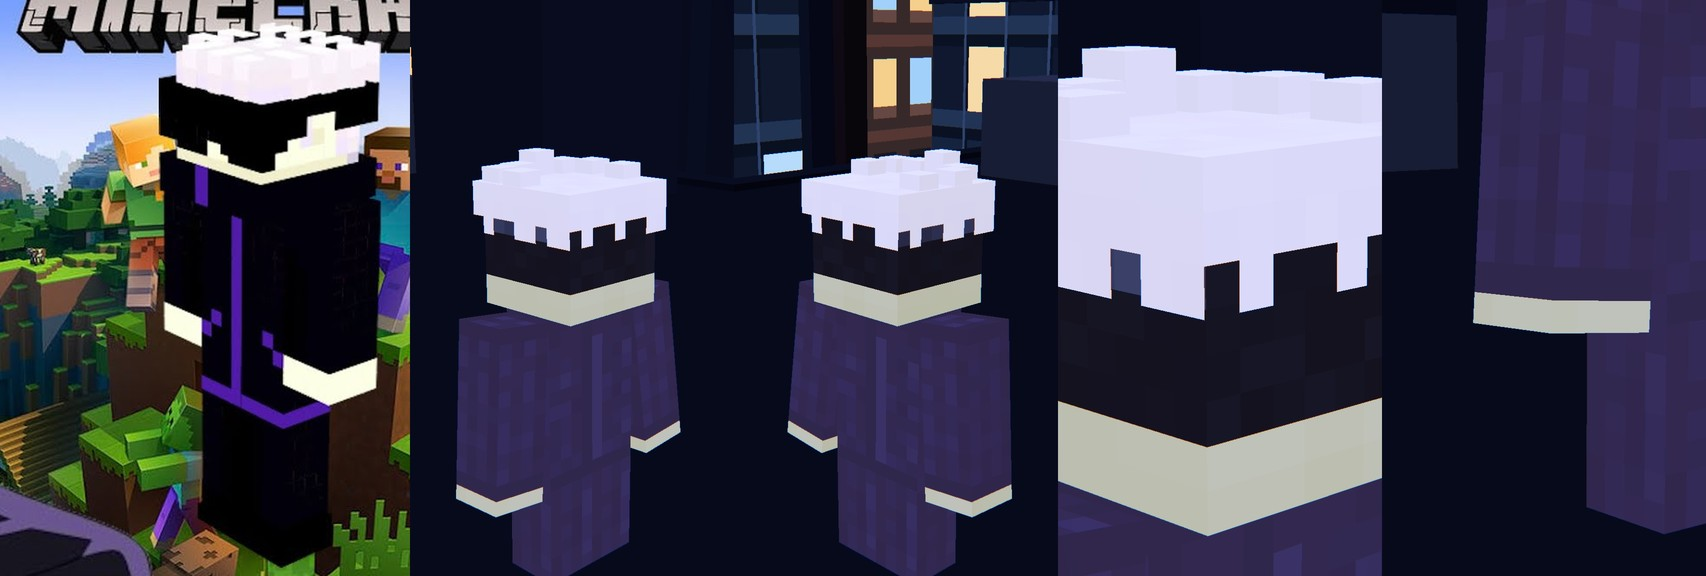
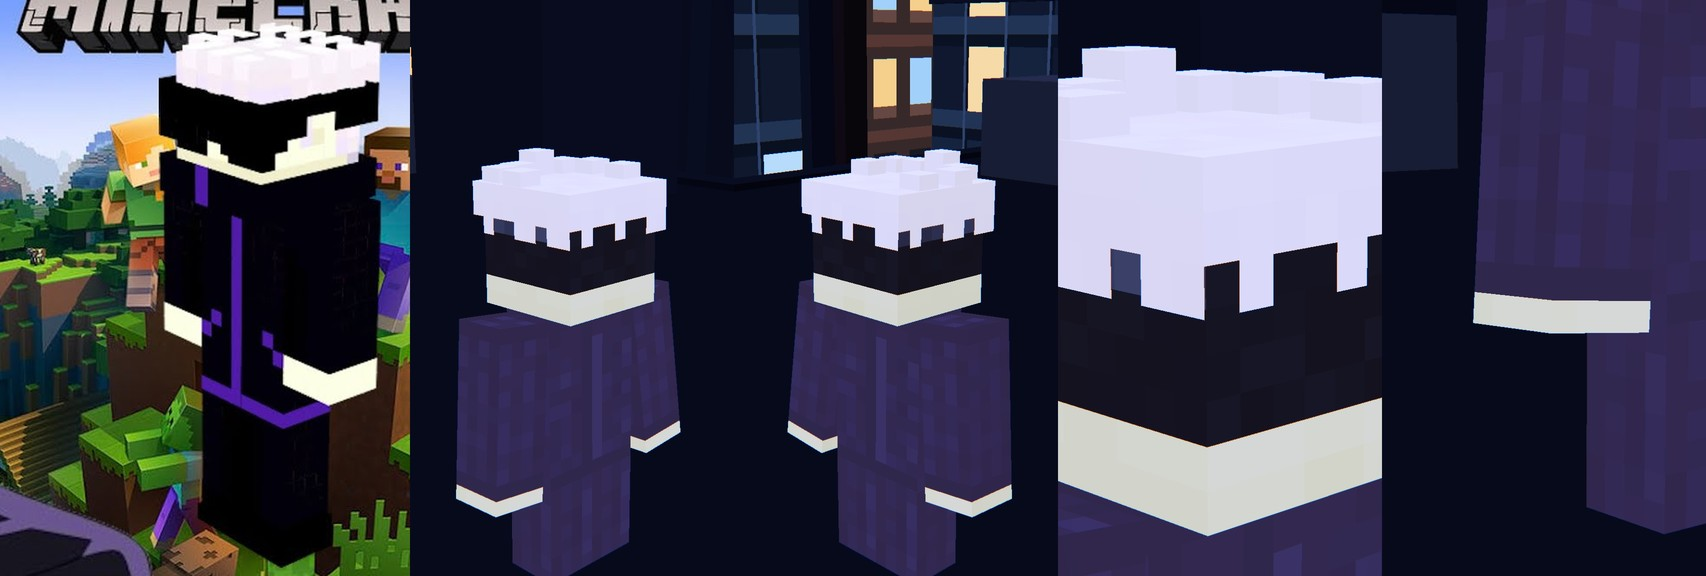
Fix #10 whiter skin, #11 black opaque domain shells
Claude-Session: https://claude.ai/code/session_01S56hgemtkMbZ6x2faBPqWi

diff --git a/minecraft-short-gojo/src/main.js b/minecraft-short-gojo/src/main.js
@@ -204,14 +204,16 @@ burst(T.kneel, [0, 0.2, 4.2], 40, { speed: 4, up: 2, life: 1.4, size: 0.3, g: 9,
 for (let k = 0; k < 14; k++) burst(T.interior + k * 0.65, [(rnd(k) - 0.5) * 18, 0.4, (rnd(k * 2) - 0.5) * 22], 8, { speed: 0.6, up: 4, life: 2.5, size: 0.3, g: -0.3, cols: [0x000000, 0x1a0010], seed: 70 + k, ground: false, spread: 6 });
 
 
-// 領域の殻(外から見る衝突) / 技の球
-function shell(col, wire) {
+// 領域の殻(外から見る): 黒い外郭。縁だけがうっすら光り、表面に弱い模様が流れる
+function shell(rim, pat, kind) {
   const g = new THREE.Group();
-  g.add(new THREE.Mesh(new THREE.IcosahedronGeometry(1, 3), new THREE.MeshBasicMaterial({ color: col, transparent: true, opacity: 0.2, side: THREE.DoubleSide, depthWrite: false, toneMapped: false })));
-  g.add(new THREE.Mesh(new THREE.IcosahedronGeometry(1.005, 2), new THREE.MeshBasicMaterial({ color: wire, wireframe: true, transparent: true, opacity: 0.6, toneMapped: false })));
-  g.visible = false; scene.add(g); return g;
+  const mat = new THREE.ShaderMaterial({ transparent: true, depthWrite: false, side: THREE.DoubleSide, toneMapped: false,
+    uniforms: { a: { value: 1.0 }, rim: { value: new THREE.Color(rim) }, pat: { value: new THREE.Color(pat) }, time: { value: 0 }, kind: { value: kind } },
+    vertexShader: 'varying vec3 vN; varying vec3 vP; void main(){ vN=normalize(normalMatrix*normal); vP=position; gl_Position=projectionMatrix*modelViewMatrix*vec4(position,1.0);}',
+    fragmentShader: 'uniform float a,time,kind; uniform vec3 rim,pat; varying vec3 vN; varying vec3 vP; float h(vec3 p){return fract(sin(dot(p,vec3(12.9898,78.233,37.719)))*43758.5453);} void main(){ float f=pow(1.0-abs(vN.z),5.0); vec3 c=vec3(0.0,0.0,0.002)+rim*f*0.55; if(kind<0.5){ float s=step(0.992,h(floor(vP*22.0))); c+=pat*s*(0.5+0.5*sin(time*4.0+h(floor(vP*22.0))*20.0))*0.8; } else { float v=0.5+0.5*sin(vP.y*14.0+sin(vP.x*9.0+time*2.0)*2.0); c+=pat*pow(v,12.0)*0.14*(0.4+f); } gl_FragColor=vec4(c,a);}' });
+  const m = new THREE.Mesh(new THREE.SphereGeometry(1, 64, 48), mat); g.add(m); g.visible = false; scene.add(g); return g;
 }
-const shA = shell(0x101a60, 0xaad0ff), shB = shell(0xff5a20, 0xffd060), shF = shell(0xff2030, 0x000000);
+const shA = shell(0x6aa8ff, 0xbfe0ff, 0), shB = shell(0xff3a30, 0xff5a40, 1), shF = shell(0xff2030, 0xff4a40, 1);
 const ball = (c) => { const m = new THREE.Mesh(new THREE.SphereGeometry(1, 18, 12), bas(c, { transparent: true })); m.visible = false; scene.add(m); return m; };
 const bfBlack = new THREE.Mesh(new THREE.SphereGeometry(1, 16, 12), new THREE.MeshBasicMaterial({ color: 0, transparent: true, depthWrite: false }));
 const bfRed = new THREE.Mesh(new THREE.SphereGeometry(1, 16, 12), new THREE.MeshBasicMaterial({ color: 0xff1030, side: THREE.BackSide, transparent: true, toneMapped: false, depthWrite: false }));
@@ -479,9 +481,9 @@ function updateFx(t, tvid) {
       flashW = Math.max(flashW, d < 0.02 ? 0.6 : 0.12 * (1 - clamp(d / 0.6))); shakeAmp = Math.max(shakeAmp, 1.0 * (1 - clamp(d / 0.9))); if (d < 0.02) invert = 1; fxLight.color.set(0x4aa8ff); fxLight.position.copy(pos); fxLight.intensity = 50 * (1 - clamp(d / 0.8)); } }
   if (t < T.counter || t > T.counter + 1.3) bfRed.material.color.set(0xff1030);
   // 五条の領域展開(一足早い)
-  { const d = hit(T.domG2, 0.9); if (d >= 0) { shA.visible = true; shA.position.set(0, 0, -7.4); shA.scale.setScalar(0.5 + 70 * easeOut(clamp(d / 0.8))); shA.children[0].material.opacity = 0.3 * (1 - d / 0.9); flashW = Math.max(flashW, d < 0.12 ? 0.9 : 0.4 * (1 - d / 0.9)); shakeAmp = Math.max(shakeAmp, 0.7 * (1 - d / 0.9)); if (d < 0.06) invert = 1; } }
+  { const d = hit(T.domG2, 0.9); if (d >= 0) { shA.visible = true; shA.position.set(0, 0, -7.4); shA.scale.setScalar(0.5 + 70 * easeOut(clamp(d / 0.8))); shA.children[0].material.uniforms.a.value = 1.0 - smooth(clamp((d - 0.45) / 0.45)); flashW = Math.max(flashW, d < 0.12 ? 0.9 : 0.4 * (1 - d / 0.9)); shakeAmp = Math.max(shakeAmp, 0.7 * (1 - d / 0.9)); if (d < 0.06) invert = 1; } }
   // 虎杖が遅れて領域展開を試みる→失敗
-  { const d = t - 38.2; if (d >= 0 && d < 0.8) { shF.visible = true; shF.position.set(0, 0, 4.2); const k = d / 0.8; shF.scale.setScalar(Math.max(0.01, 4 * Math.sin(k * PI * 0.5) * (1 - 0.8 * k * k))); shF.children[0].material.opacity = 0.3 * (1 - k); for (let b = 0; b < 8; b++) bolts.bolt(V3(0, 1.3, 4.2), V3(0, 1.3, 4.2).add(V3(rnd(frame + b) - .5, rnd(frame * 3 + b) - .5, rnd(frame * 5 + b) - .5).normalize().multiplyScalar(3.4 * (1 - k * 0.6))), { n: 5, jit: .3, w: 0.06, color: b % 2 ? 0xff1030 : 0x000000, seed: frame + b }); } }
+  { const d = t - 38.2; if (d >= 0 && d < 0.8) { shF.visible = true; shF.position.set(0, 0, 4.2); const k = d / 0.8; shF.scale.setScalar(Math.max(0.01, 4 * Math.sin(k * PI * 0.5) * (1 - 0.8 * k * k))); shF.children[0].material.uniforms.a.value = 1.0 - smooth(clamp((k - 0.5) / 0.5)); for (let b = 0; b < 8; b++) bolts.bolt(V3(0, 1.3, 4.2), V3(0, 1.3, 4.2).add(V3(rnd(frame + b) - .5, rnd(frame * 3 + b) - .5, rnd(frame * 5 + b) - .5).normalize().multiplyScalar(3.4 * (1 - k * 0.6))), { n: 5, jit: .3, w: 0.06, color: b % 2 ? 0xff1030 : 0x000000, seed: frame + b }); } }
   { const d = hit(45.5, 0.5); if (d >= 0) { flashW = Math.max(flashW, 0.7 * (1 - d / 0.5)); shakeAmp = Math.max(shakeAmp, 0.4 * (1 - d / 0.5)); } }
   // 領域G内の脈動
   if (t > T.domG2 + 0.4 && t < 45.5) { const p = Math.sin(t * 2.4); flashW = Math.max(flashW, 0.04 * Math.max(0, p)); }

diff --git a/minecraft-short-gojo/src/chars.js b/minecraft-short-gojo/src/chars.js
@@ -283,7 +283,7 @@ export function setRika(R, s) {
 const clamp01 = x => Math.min(1, Math.max(0, x));
 
 // ================= 五条悟(社長のスキン画像を再現: 白い冠の髪+黒い目隠し+暗い青紫の高襟ジャケット) =================
-const GSKIN = '#fafce5', GSKIN2 = '#eeefd8';
+const GSKIN = '#fefff4', GSKIN2 = '#f3f4e4';
 const mottle = (x, w, h, pal, seed, vert = 0.55) => { for (let j = 0; j < h; j++) for (let i = 0; i < w; i++) { const r = rnd2(i * 3.7 + seed) * vert + rnd2(i * 7.3 + j * 13.1 + seed * 1.7) * (1 - vert); dot(x, pal[Math.min(pal.length - 1, Math.floor(r * pal.length))], i, j); } };
 const rnd2 = s => { const v = Math.sin(s * 127.1 + 311.7) * 43758.5453; return v - Math.floor(v); };
 const PURP = ['#1c1830', '#241f3a', '#2f2744', '#3b3150', '#4a3d66', '#5a4a7c', '#6a5a8a'];
@@ -326,8 +326,8 @@ export function makeGojo(scene) {
   C.mats.slice(0, -1).forEach((m, i) => m.emissive.set(i >= 6 && i < 12 ? 0x12101a : 0x30264a));
   // 肌(顔の下側・手首)だけを光らせて、夜でも淡いクリーム色に見せる(髪・目隠し・服はそのまま)
   const DIM = { left: [8, 8], right: [8, 8], top: [8, 8], bottom: [8, 8], front: [8, 8], back: [8, 8] };
-  FACES.forEach((f, k) => { const m = C.mats[6 + k]; if (f === 'top' || f === 'bottom') return; m.emissive.set(0xffffff); m.emissiveMap = tex(8, 8, (x) => { x.fillStyle = '#12101a'; x.fillRect(0, 0, 8, 8); x.fillStyle = '#b4b49a'; x.fillRect(0, 6, 8, 2); }); });
-  [12, 18].forEach(base => FACES.forEach((f, k) => { const m = C.mats[base + k]; if (f === 'top' || f === 'bottom') return; const dw = (f === 'front' || f === 'back') ? 4 : 4; m.emissive.set(0xffffff); m.emissiveMap = tex(dw, 12, (x) => { x.fillStyle = '#30264a'; x.fillRect(0, 0, dw, 12); x.fillStyle = '#b4b49a'; x.fillRect(0, 11, dw, 1); }); }));
+  FACES.forEach((f, k) => { const m = C.mats[6 + k]; if (f === 'top' || f === 'bottom') return; m.emissive.set(0xffffff); m.emissiveMap = tex(8, 8, (x) => { x.fillStyle = '#12101a'; x.fillRect(0, 0, 8, 8); x.fillStyle = '#cbcbb8'; x.fillRect(0, 6, 8, 2); }); });
+  [12, 18].forEach(base => FACES.forEach((f, k) => { const m = C.mats[base + k]; if (f === 'top' || f === 'bottom') return; const dw = (f === 'front' || f === 'back') ? 4 : 4; m.emissive.set(0xffffff); m.emissiveMap = tex(dw, 12, (x) => { x.fillStyle = '#30264a'; x.fillRect(0, 0, dw, 12); x.fillStyle = '#cbcbb8'; x.fillRect(0, 11, dw, 1); }); }));
   C.paint = gojoPaint; return C;
 }
 // 腕だけの別体(切断された腕など)
@@ -342,7 +342,7 @@ export function addWhiteEyes(C) {
 export function addHands(C) {
   const mk = (sx) => {
     const grp = new THREE.Group(); grp.position.y = -12 * PX; grp.visible = false; grp.scale.setScalar(1.9);
-    const skin = new THREE.MeshLambertMaterial({ color: 0xfafce5, emissive: 0x4a4a3c }); const box = (w, h, d) => { const m = new THREE.Mesh(new THREE.BoxGeometry(w * PX, h * PX, d * PX), skin); return m; };
+    const skin = new THREE.MeshLambertMaterial({ color: 0xfefff4, emissive: 0x6a6a58 }); const box = (w, h, d) => { const m = new THREE.Mesh(new THREE.BoxGeometry(w * PX, h * PX, d * PX), skin); return m; };
     const palm = box(3.8, 3.2, 2.4); palm.position.y = -1.6 * PX; grp.add(palm);
     const fingers = []; for (let i = 0; i < 4; i++) { const f = new THREE.Group(); f.position.set((-1.4 + i * 0.95) * PX, -3.2 * PX, 0); const b = box(1.0, 4.6, 1.0); b.position.y = -2.3 * PX; f.add(b); grp.add(f); fingers.push(f); }
     const th = new THREE.Group(); th.position.set(sx * 1.8 * PX, -1.2 * PX, 0.4 * PX); const tb = box(0.9, 3, 0.9); tb.position.y = -1.5 * PX; th.add(tb); grp.add(th);

diff --git a/FIXES.md b/FIXES.md
@@ -22,3 +22,6 @@
 - [x] #8 五条の髪を修正(斜めから確認)。突起をやめ、マイクラの外側レイヤーのように、頭を包むふんわりした白い層+その上の2段+額の前髪3つ+後ろ髪+側頭部+上の小さな房5つ。夜でも白く見えるよう発光を補正。確認用: out/gojo_hair.jpg(社長の確認待ち)。メモ: 新しい参考画像の服は『黒+紫の縦線』。先のスキン画像(青紫の斑)とは違うため、どちらに合わせるか確認中。
 - [x] #8改 五条の髪を参考画像に完全コピー。頭の上3段を覆う、天面が平らな四角い白い板(外側レイヤー)+天面の縁に小さな突起(スタッド)7つ+下の縁は階段状にギザギザ(その下に黒い目隠しが見える)。前髪・側頭部・後ろ髪・段の重なりは無し(参考には無い)。夜でも真っ白に見えるよう発光を補正。確認用: out/gojo_hair.jpg(社長の確認待ち)
 - [x] #9 五条の肌の色を参考画像に寄せた(髪・目隠し・服はそのまま)。参考から測った色: 明部 #fafce5、陰部 #eeefd8(白に近い淡いクリーム色)。顔の下側(目隠しの下)・手首・証印の手のブロックに適用。夜でも沈まないよう、肌の部分だけ発光マップで底上げ(目隠しの黒は保つ)。鼻・口の色付けは参考に無いため、ごく薄い影のみ。確認用: out/gojo_skin.jpg(社長の確認待ち)
+- [x] #10 五条の肌をもう少し白く(明部 #fefff4 / 陰部 #f3f4e4、手首の発光は控えめに)。確認用: out/gojo_skin.jpg
+- [x] #11 領域展開の外郭を黒く。外から見える領域の球を、完全に不透明な黒に(縁だけがうっすら光る。五条=青白い縁+星の点、虎杖=赤い縁+弱い赤い模様)。球の中が透けないように不透明度を100%に。確認用: out/domain_black.jpg(社長の確認待ち)
+- [ ] #12 領域展開「伏魔御廚子」の形について、社長が次に指示する(指示待ち)。
